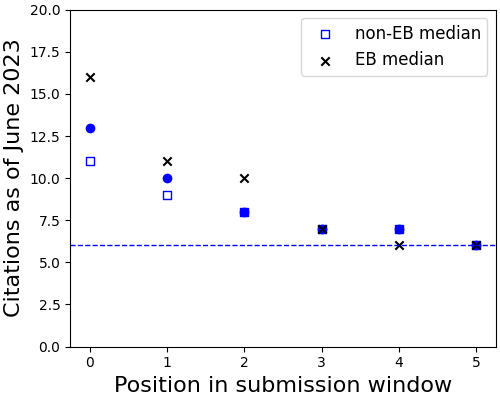
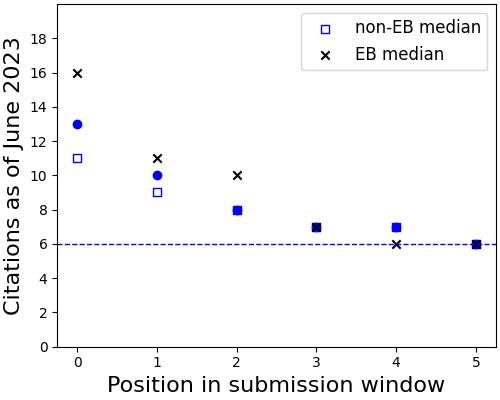
because icant write

diff --git a/docs/_posts/2024-04-02-Survival-of-the-firstest.md b/docs/_posts/2024-04-02-Survival-of-the-firstest.md
@@ -74,7 +74,7 @@ I think this shows more weak evidence *against* the causal relationship: Several
 
 ## Conclusion
 
-People who time their submissions to appear near the top of the announcement email are often the kind of people who would have been cited more regardless. But since papers that unintentionally appear near the top of the list still receive more-than-typical citation counts, its plausible that you can increase your citation count just by submitting preprints to arXiv at 2:00 PM Eastern time. But you won't be without fierce competition. Sometimes a scene plays out in my head with a ticking clock showing 1:59 and four or five dudes across the world from each other are each hunched over their laptops with their mouse cursors hovering over the "submit" button, and the theme from the Good, the Bad, and the Ugly starts playing. This scene, playing out daily among quant-ph researchers, hits harder when you realize that the long-term dissemination and recognition and implied quality of your scientific work is influenced by a few key seconds before you upload your preprint to arXiv. Its hard to see the justification for the continued existence of a system that works like this.
+People who time their submissions to appear near the top of the announcement email are often the kind of people who would have been cited more regardless. But since papers that unintentionally appear near the top of the list still receive more-than-typical citation counts, its plausible that you can increase your citation count just by submitting preprints to arXiv at 2:00 PM Eastern time. But you won't be without fierce competition. Sometimes a scene plays out in my head with a ticking clock showing 1:59 and four or five dudes across the world from each other are each hunched over their laptops with their mouse cursors hovering over the "submit" button, and the theme from the Good, the Bad, and the Ugly starts playing. This showdown, playing out daily among quant-ph researchers, hits harder when you realize that the long-term dissemination and recognition and implied quality of your scientific work is influenced by a few key seconds before you upload your preprint to arXiv. Its weird for this to just be a thing in an ostensibly objective field of academia. And its hard to see the justification for the continued existence of a system that works like this.
 
 ---
 
